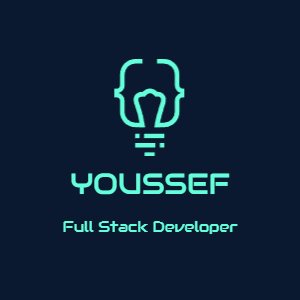
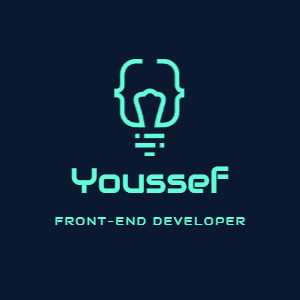
- Give credits to the theme maker - Move the scss folder from public to src

Changed region(s): [[0.24, 0.54, 0.78, 0.66], [0.18, 0.72, 0.84, 0.78]]

diff --git a/src/components/sections/Footer.tsx b/src/components/sections/Footer.tsx
@@ -41,8 +41,23 @@ export default function Footer() {
                     ))}
                 </ul>
                 <p className="footer__body">
-                    Designed & Built by{" "}
-                    <span className="footer__author">Youssef Ragaey</span>
+                    Design inspired by{" "}
+                    <a
+                        className="footer__credit footer__credit--green-link"
+                        href="https://brittanychiang.com/"
+                        target="_blank"
+                    >
+                        Brittany Chiang
+                    </a>{" "}
+                    <br />
+                    Built entirely by{" "}
+                    <a
+                        className="footer__author footer__author--green-link"
+                        href="https://github.com/youssef579"
+                        target="_blank"
+                    >
+                        Youssef Ragaey
+                    </a>
                 </p>
             </div>
         </footer>

diff --git a/src/app/layout.tsx b/src/app/layout.tsx
@@ -18,7 +18,7 @@ const robotoMono = Roboto_Mono({
 
 export const metadata = {
     title: "Youssef Ragaey",
-    description: "An Expert Fullstack Javascript Developer",
+    description: "An Expert Front-end Developer",
     authors: [{ name: "Youssef Ragaey", url: "https://github.com/youssef579" }],
     keywords: "portfolio, web development, react developer",
 };

diff --git a/src/scss/layout/_footer.scss b/src/scss/layout/_footer.scss
@@ -7,11 +7,11 @@
         color: #a8b2d1;
         font-size: 14px;
         padding: 20px 0;
+        line-height: 24px;
     }
 
     &__author {
         color: $main-color;
-        font-weight: bold;
     }
 
     &__author-email {
